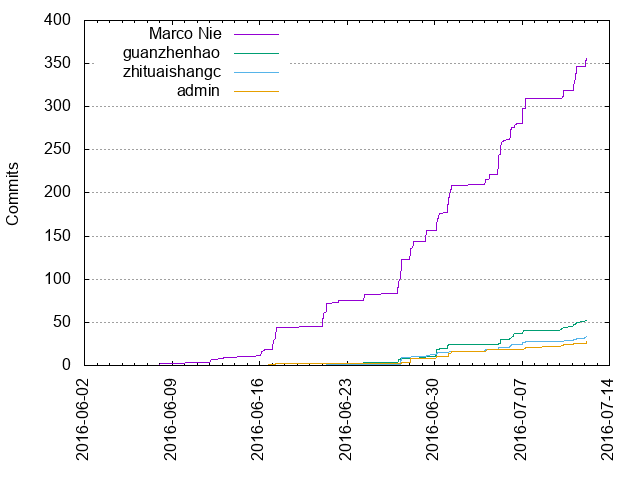
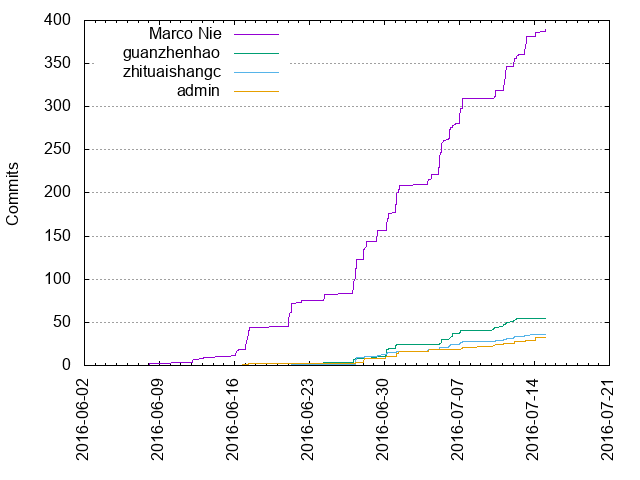
16-07-15 update

diff --git a/activity.html b/activity.html
@@ -22,27 +22,27 @@
 
 <h2 id="weekly_activity"><a href="#weekly_activity">Weekly activity</a></h2>
 
-<p>Last 32 weeks</p><table class="noborders"><tr><td style="text-align: center; vertical-align: bottom">0<div style="display: block; background-color: red; width: 20px; height: 1px"></div></td><td style="text-align: center; vertical-align: bottom">0<div style="display: block; background-color: red; width: 20px; height: 1px"></div></td><td style="text-align: center; vertical-align: bottom">0<div style="display: block; background-color: red; width: 20px; height: 1px"></div></td><td style="text-align: center; vertical-align: bottom">0<div style="display: block; background-color: red; width: 20px; height: 1px"></div></td><td style="text-align: center; vertical-align: bottom">0<div style="display: block; background-color: red; width: 20px; height: 1px"></div></td><td style="text-align: center; vertical-align: bottom">0<div style="display: block; background-color: red; width: 20px; height: 1px"></div></td><td style="text-align: center; vertical-align: bottom">0<div style="display: block; background-color: red; width: 20px; height: 1px"></div></td><td style="text-align: center; vertical-align: bottom">0<div style="display: block; background-color: red; width: 20px; height: 1px"></div></td><td style="text-align: center; vertical-align: bottom">0<div style="display: block; background-color: red; width: 20px; height: 1px"></div></td><td style="text-align: center; vertical-align: bottom">0<div style="display: block; background-color: red; width: 20px; height: 1px"></div></td><td style="text-align: center; vertical-align: bottom">0<div style="display: block; background-color: red; width: 20px; height: 1px"></div></td><td style="text-align: center; vertical-align: bottom">0<div style="display: block; background-color: red; width: 20px; height: 1px"></div></td><td style="text-align: center; vertical-align: bottom">0<div style="display: block; background-color: red; width: 20px; height: 1px"></div></td><td style="text-align: center; vertical-align: bottom">0<div style="display: block; background-color: red; width: 20px; height: 1px"></div></td><td style="text-align: center; vertical-align: bottom">0<div style="display: block; background-color: red; width: 20px; height: 1px"></div></td><td style="text-align: center; vertical-align: bottom">0<div style="display: block; background-color: red; width: 20px; height: 1px"></div></td><td style="text-align: center; vertical-align: bottom">0<div style="display: block; background-color: red; width: 20px; height: 1px"></div></td><td style="text-align: center; vertical-align: bottom">0<div style="display: block; background-color: red; width: 20px; height: 1px"></div></td><td style="text-align: center; vertical-align: bottom">0<div style="display: block; background-color: red; width: 20px; height: 1px"></div></td><td style="text-align: center; vertical-align: bottom">0<div style="display: block; background-color: red; width: 20px; height: 1px"></div></td><td style="text-align: center; vertical-align: bottom">0<div style="display: block; background-color: red; width: 20px; height: 1px"></div></td><td style="text-align: center; vertical-align: bottom">0<div style="display: block; background-color: red; width: 20px; height: 1px"></div></td><td style="text-align: center; vertical-align: bottom">0<div style="display: block; background-color: red; width: 20px; height: 1px"></div></td><td style="text-align: center; vertical-align: bottom">0<div style="display: block; background-color: red; width: 20px; height: 1px"></div></td><td style="text-align: center; vertical-align: bottom">0<div style="display: block; background-color: red; width: 20px; height: 1px"></div></td><td style="text-align: center; vertical-align: bottom">0<div style="display: block; background-color: red; width: 20px; height: 1px"></div></td><td style="text-align: center; vertical-align: bottom">7<div style="display: block; background-color: red; width: 20px; height: 7px"></div></td><td style="text-align: center; vertical-align: bottom">39<div style="display: block; background-color: red; width: 20px; height: 44px"></div></td><td style="text-align: center; vertical-align: bottom">43<div style="display: block; background-color: red; width: 20px; height: 48px"></div></td><td style="text-align: center; vertical-align: bottom">176<div style="display: block; background-color: red; width: 20px; height: 200px"></div></td><td style="text-align: center; vertical-align: bottom">151<div style="display: block; background-color: red; width: 20px; height: 171px"></div></td><td style="text-align: center; vertical-align: bottom">54<div style="display: block; background-color: red; width: 20px; height: 61px"></div></td></tr><tr><td>32</td><td>31</td><td>30</td><td>29</td><td>28</td><td>27</td><td>26</td><td>25</td><td>24</td><td>23</td><td>22</td><td>21</td><td>20</td><td>19</td><td>18</td><td>17</td><td>16</td><td>15</td><td>14</td><td>13</td><td>12</td><td>11</td><td>10</td><td>9</td><td>8</td><td>7</td><td>6</td><td>5</td><td>4</td><td>3</td><td>2</td><td>1</td></tr></table>
+<p>Last 32 weeks</p><table class="noborders"><tr><td style="text-align: center; vertical-align: bottom">0<div style="display: block; background-color: red; width: 20px; height: 1px"></div></td><td style="text-align: center; vertical-align: bottom">0<div style="display: block; background-color: red; width: 20px; height: 1px"></div></td><td style="text-align: center; vertical-align: bottom">0<div style="display: block; background-color: red; width: 20px; height: 1px"></div></td><td style="text-align: center; vertical-align: bottom">0<div style="display: block; background-color: red; width: 20px; height: 1px"></div></td><td style="text-align: center; vertical-align: bottom">0<div style="display: block; background-color: red; width: 20px; height: 1px"></div></td><td style="text-align: center; vertical-align: bottom">0<div style="display: block; background-color: red; width: 20px; height: 1px"></div></td><td style="text-align: center; vertical-align: bottom">0<div style="display: block; background-color: red; width: 20px; height: 1px"></div></td><td style="text-align: center; vertical-align: bottom">0<div style="display: block; background-color: red; width: 20px; height: 1px"></div></td><td style="text-align: center; vertical-align: bottom">0<div style="display: block; background-color: red; width: 20px; height: 1px"></div></td><td style="text-align: center; vertical-align: bottom">0<div style="display: block; background-color: red; width: 20px; height: 1px"></div></td><td style="text-align: center; vertical-align: bottom">0<div style="display: block; background-color: red; width: 20px; height: 1px"></div></td><td style="text-align: center; vertical-align: bottom">0<div style="display: block; background-color: red; width: 20px; height: 1px"></div></td><td style="text-align: center; vertical-align: bottom">0<div style="display: block; background-color: red; width: 20px; height: 1px"></div></td><td style="text-align: center; vertical-align: bottom">0<div style="display: block; background-color: red; width: 20px; height: 1px"></div></td><td style="text-align: center; vertical-align: bottom">0<div style="display: block; background-color: red; width: 20px; height: 1px"></div></td><td style="text-align: center; vertical-align: bottom">0<div style="display: block; background-color: red; width: 20px; height: 1px"></div></td><td style="text-align: center; vertical-align: bottom">0<div style="display: block; background-color: red; width: 20px; height: 1px"></div></td><td style="text-align: center; vertical-align: bottom">0<div style="display: block; background-color: red; width: 20px; height: 1px"></div></td><td style="text-align: center; vertical-align: bottom">0<div style="display: block; background-color: red; width: 20px; height: 1px"></div></td><td style="text-align: center; vertical-align: bottom">0<div style="display: block; background-color: red; width: 20px; height: 1px"></div></td><td style="text-align: center; vertical-align: bottom">0<div style="display: block; background-color: red; width: 20px; height: 1px"></div></td><td style="text-align: center; vertical-align: bottom">0<div style="display: block; background-color: red; width: 20px; height: 1px"></div></td><td style="text-align: center; vertical-align: bottom">0<div style="display: block; background-color: red; width: 20px; height: 1px"></div></td><td style="text-align: center; vertical-align: bottom">0<div style="display: block; background-color: red; width: 20px; height: 1px"></div></td><td style="text-align: center; vertical-align: bottom">0<div style="display: block; background-color: red; width: 20px; height: 1px"></div></td><td style="text-align: center; vertical-align: bottom">0<div style="display: block; background-color: red; width: 20px; height: 1px"></div></td><td style="text-align: center; vertical-align: bottom">7<div style="display: block; background-color: red; width: 20px; height: 7px"></div></td><td style="text-align: center; vertical-align: bottom">39<div style="display: block; background-color: red; width: 20px; height: 44px"></div></td><td style="text-align: center; vertical-align: bottom">43<div style="display: block; background-color: red; width: 20px; height: 48px"></div></td><td style="text-align: center; vertical-align: bottom">176<div style="display: block; background-color: red; width: 20px; height: 200px"></div></td><td style="text-align: center; vertical-align: bottom">151<div style="display: block; background-color: red; width: 20px; height: 171px"></div></td><td style="text-align: center; vertical-align: bottom">96<div style="display: block; background-color: red; width: 20px; height: 109px"></div></td></tr><tr><td>32</td><td>31</td><td>30</td><td>29</td><td>28</td><td>27</td><td>26</td><td>25</td><td>24</td><td>23</td><td>22</td><td>21</td><td>20</td><td>19</td><td>18</td><td>17</td><td>16</td><td>15</td><td>14</td><td>13</td><td>12</td><td>11</td><td>10</td><td>9</td><td>8</td><td>7</td><td>6</td><td>5</td><td>4</td><td>3</td><td>2</td><td>1</td></tr></table>
 <h2 id="hour_of_day"><a href="#hour_of_day">Hour of Day</a></h2>
 
 <table><tr><th>Hour</th><th>0</th><th>1</th><th>2</th><th>3</th><th>4</th><th>5</th><th>6</th><th>7</th><th>8</th><th>9</th><th>10</th><th>11</th><th>12</th><th>13</th><th>14</th><th>15</th><th>16</th><th>17</th><th>18</th><th>19</th><th>20</th><th>21</th><th>22</th><th>23</th></tr>
-<tr><th>Commits</th><td>0</td><td>0</td><td>0</td><td>0</td><td>0</td><td>0</td><td>0</td><td>0</td><td style="background-color: rgb(203, 0, 0)">44</td><td style="background-color: rgb(255, 0, 0)">74</td><td style="background-color: rgb(229, 0, 0)">59</td><td style="background-color: rgb(255, 0, 0)">74</td><td style="background-color: rgb(128, 0, 0)">1</td><td style="background-color: rgb(154, 0, 0)">16</td><td style="background-color: rgb(213, 0, 0)">50</td><td style="background-color: rgb(242, 0, 0)">67</td><td style="background-color: rgb(242, 0, 0)">67</td><td style="background-color: rgb(151, 0, 0)">14</td><td>0</td><td>0</td><td>0</td><td style="background-color: rgb(130, 0, 0)">2</td><td style="background-color: rgb(130, 0, 0)">2</td><td>0</td></tr>
-<tr><th>%</th><td>0.00</td><td>0.00</td><td>0.00</td><td>0.00</td><td>0.00</td><td>0.00</td><td>0.00</td><td>0.00</td><td style="background-color: rgb(203, 0, 0)">9.36</td><td style="background-color: rgb(255, 0, 0)">15.74</td><td style="background-color: rgb(229, 0, 0)">12.55</td><td style="background-color: rgb(255, 0, 0)">15.74</td><td style="background-color: rgb(128, 0, 0)">0.21</td><td style="background-color: rgb(154, 0, 0)">3.40</td><td style="background-color: rgb(213, 0, 0)">10.64</td><td style="background-color: rgb(242, 0, 0)">14.26</td><td style="background-color: rgb(242, 0, 0)">14.26</td><td style="background-color: rgb(151, 0, 0)">2.98</td><td>0.00</td><td>0.00</td><td>0.00</td><td style="background-color: rgb(130, 0, 0)">0.43</td><td style="background-color: rgb(130, 0, 0)">0.43</td><td>0.00</td></tr></table><img src="hour_of_day.png" alt="Hour of Day">
+<tr><th>Commits</th><td>0</td><td>0</td><td>0</td><td>0</td><td>0</td><td>0</td><td>0</td><td>0</td><td style="background-color: rgb(200, 0, 0)">49</td><td style="background-color: rgb(242, 0, 0)">77</td><td style="background-color: rgb(226, 0, 0)">66</td><td style="background-color: rgb(255, 0, 0)">85</td><td style="background-color: rgb(128, 0, 0)">1</td><td style="background-color: rgb(151, 0, 0)">16</td><td style="background-color: rgb(214, 0, 0)">58</td><td style="background-color: rgb(236, 0, 0)">73</td><td style="background-color: rgb(227, 0, 0)">67</td><td style="background-color: rgb(148, 0, 0)">14</td><td>0</td><td>0</td><td style="background-color: rgb(130, 0, 0)">2</td><td style="background-color: rgb(130, 0, 0)">2</td><td style="background-color: rgb(130, 0, 0)">2</td><td>0</td></tr>
+<tr><th>%</th><td>0.00</td><td>0.00</td><td>0.00</td><td>0.00</td><td>0.00</td><td>0.00</td><td>0.00</td><td>0.00</td><td style="background-color: rgb(200, 0, 0)">9.57</td><td style="background-color: rgb(242, 0, 0)">15.04</td><td style="background-color: rgb(226, 0, 0)">12.89</td><td style="background-color: rgb(255, 0, 0)">16.60</td><td style="background-color: rgb(128, 0, 0)">0.20</td><td style="background-color: rgb(151, 0, 0)">3.12</td><td style="background-color: rgb(214, 0, 0)">11.33</td><td style="background-color: rgb(236, 0, 0)">14.26</td><td style="background-color: rgb(227, 0, 0)">13.09</td><td style="background-color: rgb(148, 0, 0)">2.73</td><td>0.00</td><td>0.00</td><td style="background-color: rgb(130, 0, 0)">0.39</td><td style="background-color: rgb(130, 0, 0)">0.39</td><td style="background-color: rgb(130, 0, 0)">0.39</td><td>0.00</td></tr></table><img src="hour_of_day.png" alt="Hour of Day">
 <h2 id="day_of_week"><a href="#day_of_week">Day of Week</a></h2>
 
-<div class="vtable"><table><tr><th>Day</th><th>Total (%)</th></tr><tr><th>Mon</th><td>109 (23.19%)</td></tr><tr><th>Tue</th><td>122 (25.96%)</td></tr><tr><th>Wed</th><td>53 (11.28%)</td></tr><tr><th>Thu</th><td>82 (17.45%)</td></tr><tr><th>Fri</th><td>83 (17.66%)</td></tr><tr><th>Sat</th><td>0</td></tr><tr><th>Sun</th><td>21 (4.47%)</td></tr></table></div><img src="day_of_week.png" alt="Day of Week">
+<div class="vtable"><table><tr><th>Day</th><th>Total (%)</th></tr><tr><th>Mon</th><td>109 (21.29%)</td></tr><tr><th>Tue</th><td>129 (25.20%)</td></tr><tr><th>Wed</th><td>76 (14.84%)</td></tr><tr><th>Thu</th><td>91 (17.77%)</td></tr><tr><th>Fri</th><td>86 (16.80%)</td></tr><tr><th>Sat</th><td>0</td></tr><tr><th>Sun</th><td>21 (4.10%)</td></tr></table></div><img src="day_of_week.png" alt="Day of Week">
 <h2 id="hour_of_week"><a href="#hour_of_week">Hour of Week</a></h2>
 
-<table><tr><th>Weekday</th><th>0</th><th>1</th><th>2</th><th>3</th><th>4</th><th>5</th><th>6</th><th>7</th><th>8</th><th>9</th><th>10</th><th>11</th><th>12</th><th>13</th><th>14</th><th>15</th><th>16</th><th>17</th><th>18</th><th>19</th><th>20</th><th>21</th><th>22</th><th>23</th></tr><tr><th>Mon</th><td></td><td></td><td></td><td></td><td></td><td></td><td></td><td></td><td style="background-color: rgb(144, 0, 0)">4</td><td style="background-color: rgb(175, 0, 0)">11</td><td style="background-color: rgb(197, 0, 0)">16</td><td style="background-color: rgb(188, 0, 0)">14</td><td style="background-color: rgb(131, 0, 0)">1</td><td style="background-color: rgb(153, 0, 0)">6</td><td style="background-color: rgb(184, 0, 0)">13</td><td style="background-color: rgb(197, 0, 0)">16</td><td style="background-color: rgb(224, 0, 0)">22</td><td style="background-color: rgb(153, 0, 0)">6</td><td></td><td></td><td></td><td></td><td></td><td></td></tr><tr><th>Tue</th><td></td><td></td><td></td><td></td><td></td><td></td><td></td><td></td><td style="background-color: rgb(171, 0, 0)">10</td><td style="background-color: rgb(255, 0, 0)">29</td><td style="background-color: rgb(228, 0, 0)">23</td><td style="background-color: rgb(202, 0, 0)">17</td><td></td><td style="background-color: rgb(140, 0, 0)">3</td><td style="background-color: rgb(175, 0, 0)">11</td><td style="background-color: rgb(188, 0, 0)">14</td><td style="background-color: rgb(175, 0, 0)">11</td><td style="background-color: rgb(135, 0, 0)">2</td><td></td><td></td><td></td><td style="background-color: rgb(135, 0, 0)">2</td><td></td><td></td></tr><tr><th>Wed</th><td></td><td></td><td></td><td></td><td></td><td></td><td></td><td></td><td style="background-color: rgb(149, 0, 0)">5</td><td style="background-color: rgb(153, 0, 0)">6</td><td style="background-color: rgb(157, 0, 0)">7</td><td style="background-color: rgb(149, 0, 0)">5</td><td></td><td></td><td style="background-color: rgb(175, 0, 0)">11</td><td style="background-color: rgb(149, 0, 0)">5</td><td style="background-color: rgb(166, 0, 0)">9</td><td style="background-color: rgb(140, 0, 0)">3</td><td></td><td></td><td></td><td></td><td style="background-color: rgb(135, 0, 0)">2</td><td></td></tr><tr><th>Thu</th><td></td><td></td><td></td><td></td><td></td><td></td><td></td><td></td><td style="background-color: rgb(202, 0, 0)">17</td><td style="background-color: rgb(162, 0, 0)">8</td><td style="background-color: rgb(149, 0, 0)">5</td><td style="background-color: rgb(219, 0, 0)">21</td><td></td><td></td><td style="background-color: rgb(175, 0, 0)">11</td><td style="background-color: rgb(193, 0, 0)">15</td><td style="background-color: rgb(140, 0, 0)">3</td><td style="background-color: rgb(135, 0, 0)">2</td><td></td><td></td><td></td><td></td><td></td><td></td></tr><tr><th>Fri</th><td></td><td></td><td></td><td></td><td></td><td></td><td></td><td></td><td style="background-color: rgb(149, 0, 0)">5</td><td style="background-color: rgb(202, 0, 0)">17</td><td style="background-color: rgb(162, 0, 0)">8</td><td style="background-color: rgb(193, 0, 0)">15</td><td></td><td style="background-color: rgb(149, 0, 0)">5</td><td style="background-color: rgb(140, 0, 0)">3</td><td style="background-color: rgb(175, 0, 0)">11</td><td style="background-color: rgb(206, 0, 0)">18</td><td style="background-color: rgb(131, 0, 0)">1</td><td></td><td></td><td></td><td></td><td></td><td></td></tr><tr><th>Sat</th><td></td><td></td><td></td><td></td><td></td><td></td><td></td><td></td><td></td><td></td><td></td><td></td><td></td><td></td><td></td><td></td><td></td><td></td><td></td><td></td><td></td><td></td><td></td><td></td></tr><tr><th>Sun</th><td></td><td></td><td></td><td></td><td></td><td></td><td></td><td></td><td style="background-color: rgb(140, 0, 0)">3</td><td style="background-color: rgb(140, 0, 0)">3</td><td></td><td style="background-color: rgb(135, 0, 0)">2</td><td></td><td style="background-color: rgb(135, 0, 0)">2</td><td style="background-color: rgb(131, 0, 0)">1</td><td style="background-color: rgb(153, 0, 0)">6</td><td style="background-color: rgb(144, 0, 0)">4</td><td></td><td></td><td></td><td></td><td></td><td></td><td></td></tr></table>
+<table><tr><th>Weekday</th><th>0</th><th>1</th><th>2</th><th>3</th><th>4</th><th>5</th><th>6</th><th>7</th><th>8</th><th>9</th><th>10</th><th>11</th><th>12</th><th>13</th><th>14</th><th>15</th><th>16</th><th>17</th><th>18</th><th>19</th><th>20</th><th>21</th><th>22</th><th>23</th></tr><tr><th>Mon</th><td></td><td></td><td></td><td></td><td></td><td></td><td></td><td></td><td style="background-color: rgb(144, 0, 0)">4</td><td style="background-color: rgb(175, 0, 0)">11</td><td style="background-color: rgb(197, 0, 0)">16</td><td style="background-color: rgb(188, 0, 0)">14</td><td style="background-color: rgb(131, 0, 0)">1</td><td style="background-color: rgb(153, 0, 0)">6</td><td style="background-color: rgb(184, 0, 0)">13</td><td style="background-color: rgb(197, 0, 0)">16</td><td style="background-color: rgb(224, 0, 0)">22</td><td style="background-color: rgb(153, 0, 0)">6</td><td></td><td></td><td></td><td></td><td></td><td></td></tr><tr><th>Tue</th><td></td><td></td><td></td><td></td><td></td><td></td><td></td><td></td><td style="background-color: rgb(171, 0, 0)">10</td><td style="background-color: rgb(255, 0, 0)">29</td><td style="background-color: rgb(228, 0, 0)">23</td><td style="background-color: rgb(202, 0, 0)">17</td><td></td><td style="background-color: rgb(140, 0, 0)">3</td><td style="background-color: rgb(179, 0, 0)">12</td><td style="background-color: rgb(206, 0, 0)">18</td><td style="background-color: rgb(175, 0, 0)">11</td><td style="background-color: rgb(135, 0, 0)">2</td><td></td><td></td><td style="background-color: rgb(135, 0, 0)">2</td><td style="background-color: rgb(135, 0, 0)">2</td><td></td><td></td></tr><tr><th>Wed</th><td></td><td></td><td></td><td></td><td></td><td></td><td></td><td></td><td style="background-color: rgb(153, 0, 0)">6</td><td style="background-color: rgb(157, 0, 0)">7</td><td style="background-color: rgb(188, 0, 0)">14</td><td style="background-color: rgb(171, 0, 0)">10</td><td></td><td></td><td style="background-color: rgb(206, 0, 0)">18</td><td style="background-color: rgb(157, 0, 0)">7</td><td style="background-color: rgb(166, 0, 0)">9</td><td style="background-color: rgb(140, 0, 0)">3</td><td></td><td></td><td></td><td></td><td style="background-color: rgb(135, 0, 0)">2</td><td></td></tr><tr><th>Thu</th><td></td><td></td><td></td><td></td><td></td><td></td><td></td><td></td><td style="background-color: rgb(206, 0, 0)">18</td><td style="background-color: rgb(171, 0, 0)">10</td><td style="background-color: rgb(149, 0, 0)">5</td><td style="background-color: rgb(246, 0, 0)">27</td><td></td><td></td><td style="background-color: rgb(175, 0, 0)">11</td><td style="background-color: rgb(193, 0, 0)">15</td><td style="background-color: rgb(140, 0, 0)">3</td><td style="background-color: rgb(135, 0, 0)">2</td><td></td><td></td><td></td><td></td><td></td><td></td></tr><tr><th>Fri</th><td></td><td></td><td></td><td></td><td></td><td></td><td></td><td></td><td style="background-color: rgb(162, 0, 0)">8</td><td style="background-color: rgb(202, 0, 0)">17</td><td style="background-color: rgb(162, 0, 0)">8</td><td style="background-color: rgb(193, 0, 0)">15</td><td></td><td style="background-color: rgb(149, 0, 0)">5</td><td style="background-color: rgb(140, 0, 0)">3</td><td style="background-color: rgb(175, 0, 0)">11</td><td style="background-color: rgb(206, 0, 0)">18</td><td style="background-color: rgb(131, 0, 0)">1</td><td></td><td></td><td></td><td></td><td></td><td></td></tr><tr><th>Sat</th><td></td><td></td><td></td><td></td><td></td><td></td><td></td><td></td><td></td><td></td><td></td><td></td><td></td><td></td><td></td><td></td><td></td><td></td><td></td><td></td><td></td><td></td><td></td><td></td></tr><tr><th>Sun</th><td></td><td></td><td></td><td></td><td></td><td></td><td></td><td></td><td style="background-color: rgb(140, 0, 0)">3</td><td style="background-color: rgb(140, 0, 0)">3</td><td></td><td style="background-color: rgb(135, 0, 0)">2</td><td></td><td style="background-color: rgb(135, 0, 0)">2</td><td style="background-color: rgb(131, 0, 0)">1</td><td style="background-color: rgb(153, 0, 0)">6</td><td style="background-color: rgb(144, 0, 0)">4</td><td></td><td></td><td></td><td></td><td></td><td></td><td></td></tr></table>
 <h2 id="month_of_year"><a href="#month_of_year">Month of Year</a></h2>
 
-<div class="vtable"><table><tr><th>Month</th><th>Commits (%)</th></tr><tr><td>1</td><td>0 (0.00 %)</td></tr><tr><td>2</td><td>0 (0.00 %)</td></tr><tr><td>3</td><td>0 (0.00 %)</td></tr><tr><td>4</td><td>0 (0.00 %)</td></tr><tr><td>5</td><td>0 (0.00 %)</td></tr><tr><td>6</td><td>221 (47.02 %)</td></tr><tr><td>7</td><td>249 (52.98 %)</td></tr><tr><td>8</td><td>0 (0.00 %)</td></tr><tr><td>9</td><td>0 (0.00 %)</td></tr><tr><td>10</td><td>0 (0.00 %)</td></tr><tr><td>11</td><td>0 (0.00 %)</td></tr><tr><td>12</td><td>0 (0.00 %)</td></tr></table></div><img src="month_of_year.png" alt="Month of Year">
+<div class="vtable"><table><tr><th>Month</th><th>Commits (%)</th></tr><tr><td>1</td><td>0 (0.00 %)</td></tr><tr><td>2</td><td>0 (0.00 %)</td></tr><tr><td>3</td><td>0 (0.00 %)</td></tr><tr><td>4</td><td>0 (0.00 %)</td></tr><tr><td>5</td><td>0 (0.00 %)</td></tr><tr><td>6</td><td>221 (43.16 %)</td></tr><tr><td>7</td><td>291 (56.84 %)</td></tr><tr><td>8</td><td>0 (0.00 %)</td></tr><tr><td>9</td><td>0 (0.00 %)</td></tr><tr><td>10</td><td>0 (0.00 %)</td></tr><tr><td>11</td><td>0 (0.00 %)</td></tr><tr><td>12</td><td>0 (0.00 %)</td></tr></table></div><img src="month_of_year.png" alt="Month of Year">
 <h2 id="commits_by_year/month"><a href="#commits_by_year/month">Commits by year/month</a></h2>
 
-<div class="vtable"><table><tr><th>Month</th><th>Commits</th><th>Lines added</th><th>Lines removed</th></tr><tr><td>2016-07</td><td>249</td><td>3129</td><td>2684</td></tr><tr><td>2016-06</td><td>221</td><td>7118</td><td>3018</td></tr></table></div><img src="commits_by_year_month.png" alt="Commits by year/month">
+<div class="vtable"><table><tr><th>Month</th><th>Commits</th><th>Lines added</th><th>Lines removed</th></tr><tr><td>2016-07</td><td>291</td><td>3412</td><td>2917</td></tr><tr><td>2016-06</td><td>221</td><td>7118</td><td>3018</td></tr></table></div><img src="commits_by_year_month.png" alt="Commits by year/month">
 <h2 id="commits_by_year"><a href="#commits_by_year">Commits by Year</a></h2>
 
-<div class="vtable"><table><tr><th>Year</th><th>Commits (% of all)</th><th>Lines added</th><th>Lines removed</th></tr><tr><td>2016</td><td>470 (100.00%)</td><td>10247</td><td>5702</td></tr></table></div><img src="commits_by_year.png" alt="Commits by Year">
+<div class="vtable"><table><tr><th>Year</th><th>Commits (% of all)</th><th>Lines added</th><th>Lines removed</th></tr><tr><td>2016</td><td>512 (100.00%)</td><td>10530</td><td>5935</td></tr></table></div><img src="commits_by_year.png" alt="Commits by Year">
 <h2 id="commits_by_timezone"><a href="#commits_by_timezone">Commits by Timezone</a></h2>
 
-<table><tr><th>Timezone</th><th>Commits</th></tr><tr><th>+0800</th><td style="background-color: rgb(255, 0, 0)">470</td></tr></table></body></html>
+<table><tr><th>Timezone</th><th>Commits</th></tr><tr><th>+0800</th><td style="background-color: rgb(255, 0, 0)">512</td></tr></table></body></html>

diff --git a/authors.html b/authors.html
@@ -22,7 +22,7 @@
 
 <h2 id="list_of_authors"><a href="#list_of_authors">List of Authors</a></h2>
 
-<table class="authors sortable" id="authors"><tr><th>Author</th><th>Commits (%)</th><th>+ lines</th><th>- lines</th><th>First commit</th><th>Last commit</th><th class="unsortable">Age</th><th>Active days</th><th># by commits</th></tr><tr><td>Marco Nie</td><td>356 (75.74%)</td><td>7863</td><td>3923</td><td>2016-06-08</td><td>2016-07-12</td><td>34 days, 2:45:54</td><td>21</td><td>1</td></tr><tr><td>guanzhenhao</td><td>52 (11.06%)</td><td>2067</td><td>1762</td><td>2016-06-24</td><td>2016-07-12</td><td>17 days, 18:32:44</td><td>11</td><td>2</td></tr><tr><td>zhituaishangc</td><td>34 (7.23%)</td><td>142</td><td>31</td><td>2016-06-21</td><td>2016-07-12</td><td>20 days, 18:52:10</td><td>13</td><td>3</td></tr><tr><td>admin</td><td>28 (5.96%)</td><td>772</td><td>575</td><td>2016-06-17</td><td>2016-07-12</td><td>25 days, 3:05:17</td><td>10</td><td>4</td></tr></table>
+<table class="authors sortable" id="authors"><tr><th>Author</th><th>Commits (%)</th><th>+ lines</th><th>- lines</th><th>First commit</th><th>Last commit</th><th class="unsortable">Age</th><th>Active days</th><th># by commits</th></tr><tr><td>Marco Nie</td><td>389 (75.98%)</td><td>8107</td><td>4131</td><td>2016-06-08</td><td>2016-07-15</td><td>36 days, 23:56:00</td><td>24</td><td>1</td></tr><tr><td>guanzhenhao</td><td>55 (10.74%)</td><td>2083</td><td>1769</td><td>2016-06-24</td><td>2016-07-12</td><td>18 days, 0:24:21</td><td>11</td><td>2</td></tr><tr><td>zhituaishangc</td><td>36 (7.03%)</td><td>142</td><td>31</td><td>2016-06-21</td><td>2016-07-14</td><td>22 days, 16:14:52</td><td>15</td><td>3</td></tr><tr><td>admin</td><td>32 (6.25%)</td><td>798</td><td>596</td><td>2016-06-17</td><td>2016-07-14</td><td>27 days, 2:47:19</td><td>12</td><td>4</td></tr></table>
 <h2 id="cumulated_added_lines_of_code_per_author"><a href="#cumulated_added_lines_of_code_per_author">Cumulated Added Lines of Code per Author</a></h2>
 
 <img src="lines_of_code_by_author.png" alt="Lines of code per Author">
@@ -31,10 +31,10 @@
 <img src="commits_by_author.png" alt="Commits per Author">
 <h2 id="author_of_month"><a href="#author_of_month">Author of Month</a></h2>
 
-<table class="sortable" id="aom"><tr><th>Month</th><th>Author</th><th>Commits (%)</th><th class="unsortable">Next top 5</th><th>Number of authors</th></tr><tr><td>2016-07</td><td>Marco Nie</td><td>180 (72.29% of 249)</td><td>guanzhenhao, zhituaishangc, admin</td><td>4</td></tr><tr><td>2016-06</td><td>Marco Nie</td><td>176 (79.64% of 221)</td><td>guanzhenhao, zhituaishangc, admin</td><td>4</td></tr></table>
+<table class="sortable" id="aom"><tr><th>Month</th><th>Author</th><th>Commits (%)</th><th class="unsortable">Next top 5</th><th>Number of authors</th></tr><tr><td>2016-07</td><td>Marco Nie</td><td>213 (73.20% of 291)</td><td>guanzhenhao, admin, zhituaishangc</td><td>4</td></tr><tr><td>2016-06</td><td>Marco Nie</td><td>176 (79.64% of 221)</td><td>guanzhenhao, zhituaishangc, admin</td><td>4</td></tr></table>
 <h2 id="author_of_year"><a href="#author_of_year">Author of Year</a></h2>
 
-<table class="sortable" id="aoy"><tr><th>Year</th><th>Author</th><th>Commits (%)</th><th class="unsortable">Next top 5</th><th>Number of authors</th></tr><tr><td>2016</td><td>Marco Nie</td><td>356 (75.74% of 470)</td><td>guanzhenhao, zhituaishangc, admin</td><td>4</td></tr></table>
+<table class="sortable" id="aoy"><tr><th>Year</th><th>Author</th><th>Commits (%)</th><th class="unsortable">Next top 5</th><th>Number of authors</th></tr><tr><td>2016</td><td>Marco Nie</td><td>389 (75.98% of 512)</td><td>guanzhenhao, zhituaishangc, admin</td><td>4</td></tr></table>
 <h2 id="commits_by_domains"><a href="#commits_by_domains">Commits by Domains</a></h2>
 
-<div class="vtable"><table><tr><th>Domains</th><th>Total (%)</th></tr><tr><th>icloud.com</th><td>187 (39.79%)</td></tr><tr><th>users.noreply.github.com</th><td>169 (35.96%)</td></tr><tr><th>sina.cn</th><td>34 (7.23%)</td></tr><tr><th>sina.com</th><td>28 (5.96%)</td></tr><tr><th>gmail.com</th><td>27 (5.74%)</td></tr><tr><th>163.com</th><td>25 (5.32%)</td></tr></table></div><img src="domains.png" alt="Commits by Domains"></body></html>
+<div class="vtable"><table><tr><th>Domains</th><th>Total (%)</th></tr><tr><th>icloud.com</th><td>203 (39.65%)</td></tr><tr><th>users.noreply.github.com</th><td>186 (36.33%)</td></tr><tr><th>sina.cn</th><td>36 (7.03%)</td></tr><tr><th>sina.com</th><td>32 (6.25%)</td></tr><tr><th>gmail.com</th><td>29 (5.66%)</td></tr><tr><th>163.com</th><td>26 (5.08%)</td></tr></table></div><img src="domains.png" alt="Commits by Domains"></body></html>

diff --git a/tags.html b/tags.html
@@ -19,4 +19,4 @@
 <li><a href="tags.html">Tags</a></li>
 </ul>
 </div>
-<dl><dt>Total tags</dt><dd>11</dd><dt>Average commits per tag</dt><dd>42.73</dd></dl><table class="tags"><tr><th>Name</th><th>Date</th><th>Commits</th><th>Authors</th></tr><tr><td>V0.7.0</td><td>2016-07-11</td><td>38</td><td>Marco Nie (26), guanzhenhao (6), admin (4), zhituaishangc (2)</td></tr><tr><td>V0.6.0</td><td>2016-07-07</td><td>57</td><td>Marco Nie (34), guanzhenhao (11), zhituaishangc (9), admin (3)</td></tr><tr><td>V0.5.2</td><td>2016-07-06</td><td>11</td><td>Marco Nie (11)</td></tr><tr><td>V0.5.1</td><td>2016-07-06</td><td>8</td><td>Marco Nie (8)</td></tr><tr><td>V0.5.0</td><td>2016-07-05</td><td>55</td><td>Marco Nie (46), guanzhenhao (5), zhituaishangc (2), admin (2)</td></tr><tr><td>V0.4.0</td><td>2016-07-01</td><td>63</td><td>Marco Nie (38), guanzhenhao (16), admin (6), zhituaishangc (3)</td></tr><tr><td>V0.3.0</td><td>2016-06-30</td><td>35</td><td>Marco Nie (29), zhituaishangc (4), admin (2)</td></tr><tr><td>V0.2.2</td><td>2016-06-28</td><td>28</td><td>Marco Nie (21), admin (5), zhituaishangc (2)</td></tr><tr><td>V0.2.1</td><td>2016-06-27</td><td>11</td><td>Marco Nie (9), zhituaishangc (1), admin (1)</td></tr><tr><td>V0.2.0</td><td>2016-06-27</td><td>50</td><td>Marco Nie (37), guanzhenhao (8), zhituaishangc (5)</td></tr><tr><td>V0.1.0</td><td>2016-06-22</td><td>78</td><td>Marco Nie (75), admin (2), zhituaishangc (1)</td></tr></table></body></html>
+<dl><dt>Total tags</dt><dd>15</dd><dt>Average commits per tag</dt><dd>34.13</dd></dl><table class="tags"><tr><th>Name</th><th>Date</th><th>Commits</th><th>Authors</th></tr><tr><td>V0.8.3</td><td>2016-07-14</td><td>9</td><td>Marco Nie (5), admin (3), zhituaishangc (1)</td></tr><tr><td>V0.8.2</td><td>2016-07-13</td><td>10</td><td>Marco Nie (10)</td></tr><tr><td>V0.8.1</td><td>2016-07-13</td><td>5</td><td>Marco Nie (3), zhituaishangc (1), admin (1)</td></tr><tr><td>V0.8.0</td><td>2016-07-13</td><td>51</td><td>Marco Nie (34), guanzhenhao (9), zhituaishangc (5), admin (3)</td></tr><tr><td>V0.7.0</td><td>2016-07-11</td><td>38</td><td>Marco Nie (26), guanzhenhao (6), admin (4), zhituaishangc (2)</td></tr><tr><td>V0.6.0</td><td>2016-07-07</td><td>57</td><td>Marco Nie (34), guanzhenhao (11), zhituaishangc (9), admin (3)</td></tr><tr><td>V0.5.2</td><td>2016-07-06</td><td>11</td><td>Marco Nie (11)</td></tr><tr><td>V0.5.1</td><td>2016-07-06</td><td>8</td><td>Marco Nie (8)</td></tr><tr><td>V0.5.0</td><td>2016-07-05</td><td>55</td><td>Marco Nie (46), guanzhenhao (5), zhituaishangc (2), admin (2)</td></tr><tr><td>V0.4.0</td><td>2016-07-01</td><td>63</td><td>Marco Nie (38), guanzhenhao (16), admin (6), zhituaishangc (3)</td></tr><tr><td>V0.3.0</td><td>2016-06-30</td><td>35</td><td>Marco Nie (29), zhituaishangc (4), admin (2)</td></tr><tr><td>V0.2.2</td><td>2016-06-28</td><td>28</td><td>Marco Nie (21), admin (5), zhituaishangc (2)</td></tr><tr><td>V0.2.1</td><td>2016-06-27</td><td>11</td><td>Marco Nie (9), zhituaishangc (1), admin (1)</td></tr><tr><td>V0.2.0</td><td>2016-06-27</td><td>50</td><td>Marco Nie (37), guanzhenhao (8), zhituaishangc (5)</td></tr><tr><td>V0.1.0</td><td>2016-06-22</td><td>78</td><td>Marco Nie (75), admin (2), zhituaishangc (1)</td></tr></table></body></html>

diff --git a/files.html b/files.html
@@ -20,11 +20,11 @@
 </ul>
 </div>
 <dl>
-<dt>Total files</dt><dd>56</dd><dt>Total lines</dt><dd>4545</dd><dt>Average file size</dt><dd>14219.86 bytes</dd></dl>
+<dt>Total files</dt><dd>56</dd><dt>Total lines</dt><dd>4595</dd><dt>Average file size</dt><dd>14236.91 bytes</dd></dl>
 
 <h2 id="file_count_by_date"><a href="#file_count_by_date">File count by date</a></h2>
 
 <img src="files_by_date.png" alt="Files by Date">
 <h2 id="extensions"><a href="#extensions">Extensions</a></h2>
 
-<table class="sortable" id="ext"><tr><th>Extension</th><th>Files (%)</th><th>Lines (%)</th><th>Lines/file</th></tr><tr><td>DEF</td><td>2 (3.57%)</td><td>62 (1.36%)</td><td>31</td></tr><tr><td>MPF</td><td>2 (3.57%)</td><td>61 (1.34%)</td><td>30</td></tr><tr><td>SPF</td><td>27 (48.21%)</td><td>1456 (32.04%)</td><td>53</td></tr><tr><td>com</td><td>1 (1.79%)</td><td>1662 (36.57%)</td><td>1662</td></tr><tr><td>ini</td><td>3 (5.36%)</td><td>14 (0.31%)</td><td>4</td></tr><tr><td>md</td><td>2 (3.57%)</td><td>272 (5.98%)</td><td>136</td></tr><tr><td>png</td><td>18 (32.14%)</td><td>2710 (59.63%)</td><td>150</td></tr><tr><td>txt</td><td>1 (1.79%)</td><td>1014 (22.31%)</td><td>1014</td></tr></table></body></html>
+<table class="sortable" id="ext"><tr><th>Extension</th><th>Files (%)</th><th>Lines (%)</th><th>Lines/file</th></tr><tr><td>DEF</td><td>2 (3.57%)</td><td>64 (1.39%)</td><td>32</td></tr><tr><td>MPF</td><td>2 (3.57%)</td><td>63 (1.37%)</td><td>31</td></tr><tr><td>SPF</td><td>27 (48.21%)</td><td>1501 (32.67%)</td><td>55</td></tr><tr><td>com</td><td>1 (1.79%)</td><td>1662 (36.17%)</td><td>1662</td></tr><tr><td>ini</td><td>3 (5.36%)</td><td>14 (0.30%)</td><td>4</td></tr><tr><td>md</td><td>2 (3.57%)</td><td>273 (5.94%)</td><td>136</td></tr><tr><td>png</td><td>18 (32.14%)</td><td>2710 (58.98%)</td><td>150</td></tr><tr><td>txt</td><td>1 (1.79%)</td><td>1014 (22.07%)</td><td>1014</td></tr></table></body></html>

diff --git a/index.html b/index.html
@@ -19,5 +19,5 @@
 <li><a href="tags.html">Tags</a></li>
 </ul>
 </div>
-<dl><dt>Project name</dt><dd>Programing_NC</dd><dt>Generated</dt><dd>2016-07-12 14:48:52 (in 3 seconds)</dd><dt>Generator</dt><dd><a href="http://gitstats.sourceforge.net/">GitStats</a> (version 55c5c28), git version 2.5.4 (Apple Git-61), gnuplot 5.0 patchlevel 3</dd><dt>Report Period</dt><dd>2016-06-08 08:49:42 to 2016-07-12 11:35:36</dd><dt>Age</dt><dd>35 days, 21 active days (60.00%)</dd><dt>Total Files</dt><dd>56</dd><dt>Total Lines of Code</dt><dd>4545 (10247 added, 5702 removed)</dd><dt>Total Commits</dt><dd>470 (average 22.4 commits per active day, 13.4 per all days)</dd><dt>Authors</dt><dd>4 (average 117.5 commits per author)</dd></dl></body>
+<dl><dt>Project name</dt><dd>Programing_NC</dd><dt>Generated</dt><dd>2016-07-15 08:49:40 (in 3 seconds)</dd><dt>Generator</dt><dd><a href="http://gitstats.sourceforge.net/">GitStats</a> (version 55c5c28), git version 2.5.4 (Apple Git-61), gnuplot 5.0 patchlevel 3</dd><dt>Report Period</dt><dd>2016-06-08 08:49:42 to 2016-07-15 08:45:42</dd><dt>Age</dt><dd>38 days, 24 active days (63.16%)</dd><dt>Total Files</dt><dd>56</dd><dt>Total Lines of Code</dt><dd>4595 (10530 added, 5935 removed)</dd><dt>Total Commits</dt><dd>512 (average 21.3 commits per active day, 13.5 per all days)</dd><dt>Authors</dt><dd>4 (average 128.0 commits per author)</dd></dl></body>
 </html>

diff --git a/lines.html b/lines.html
@@ -20,7 +20,7 @@
 </ul>
 </div>
 <dl>
-<dt>Total lines</dt><dd>4545</dd></dl>
+<dt>Total lines</dt><dd>4595</dd></dl>
 
 <h2 id="lines_of_code"><a href="#lines_of_code">Lines of Code</a></h2>
 
